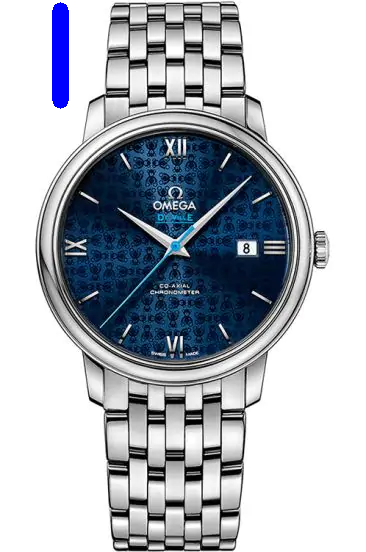
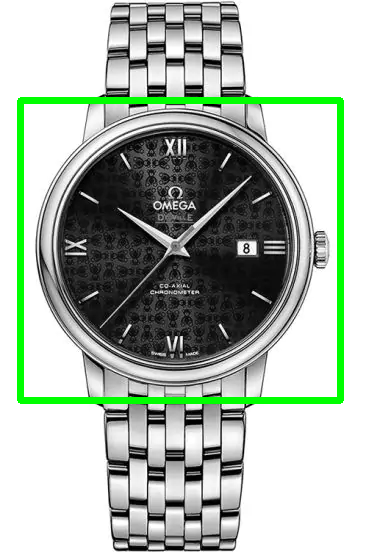
Drawing a rectangle using cv2 and saving the output in output directory

Changed region(s): [[0.1803, 0.2464, 0.8115, 0.6775], [0.0301, 0.0, 0.9617, 0.7391]]

diff --git a/drawingDifferentShapesAndWritingText.py b/drawingDifferentShapesAndWritingText.py
@@ -1,17 +1,17 @@
 import numpy as np
 import cv2
 
-img=cv2.imread('images/watch.jpg',cv2.IMREAD_COLOR)
-
+img=cv2.imread('images/watch.png',cv2.IMREAD_COLOR)
+'''
 # Drawing a line on the image using cv2
 # cv2.line('draw line on the image','from where does the line starts','where does the line ends','color of the line(BGR)','line width')
 '''
------------------NOTE------------------
-Blue => (255,0,0)
-Green => (0,255,0)
-Red => (0,0,255)
-Black => (0,0,0)
-White => (255,255,255)
+# -----------------NOTE------------------
+# Blue => (255,0,0)
+# Green => (0,255,0)
+# Red => (0,0,255)
+# Black => (0,0,0)
+# White => (255,255,255)
 '''
 
 cv2.line(img,(60,10),(60,100),(255,0,0),15)
@@ -21,3 +21,14 @@ cv2.destroyAllWindows()
 cv2.imwrite('output/line.png',img)
 
 # output is in directory "output" =.line.png
+'''
+
+# Drawing a rectange on the image using cv2
+# cv2.reactangle(image,start from(x,y),end at(x,y),color,thickness,)
+
+cv2.rectangle(img,(20,400),(340,100),(0,255,0),5)
+cv2.imshow('rectangle',img)
+cv2.waitKey(0)
+cv2.destroyAllWindows()
+cv2.imwrite('output/line.png',img)
+cv2.imwrite('output/reactangle.png',img)
